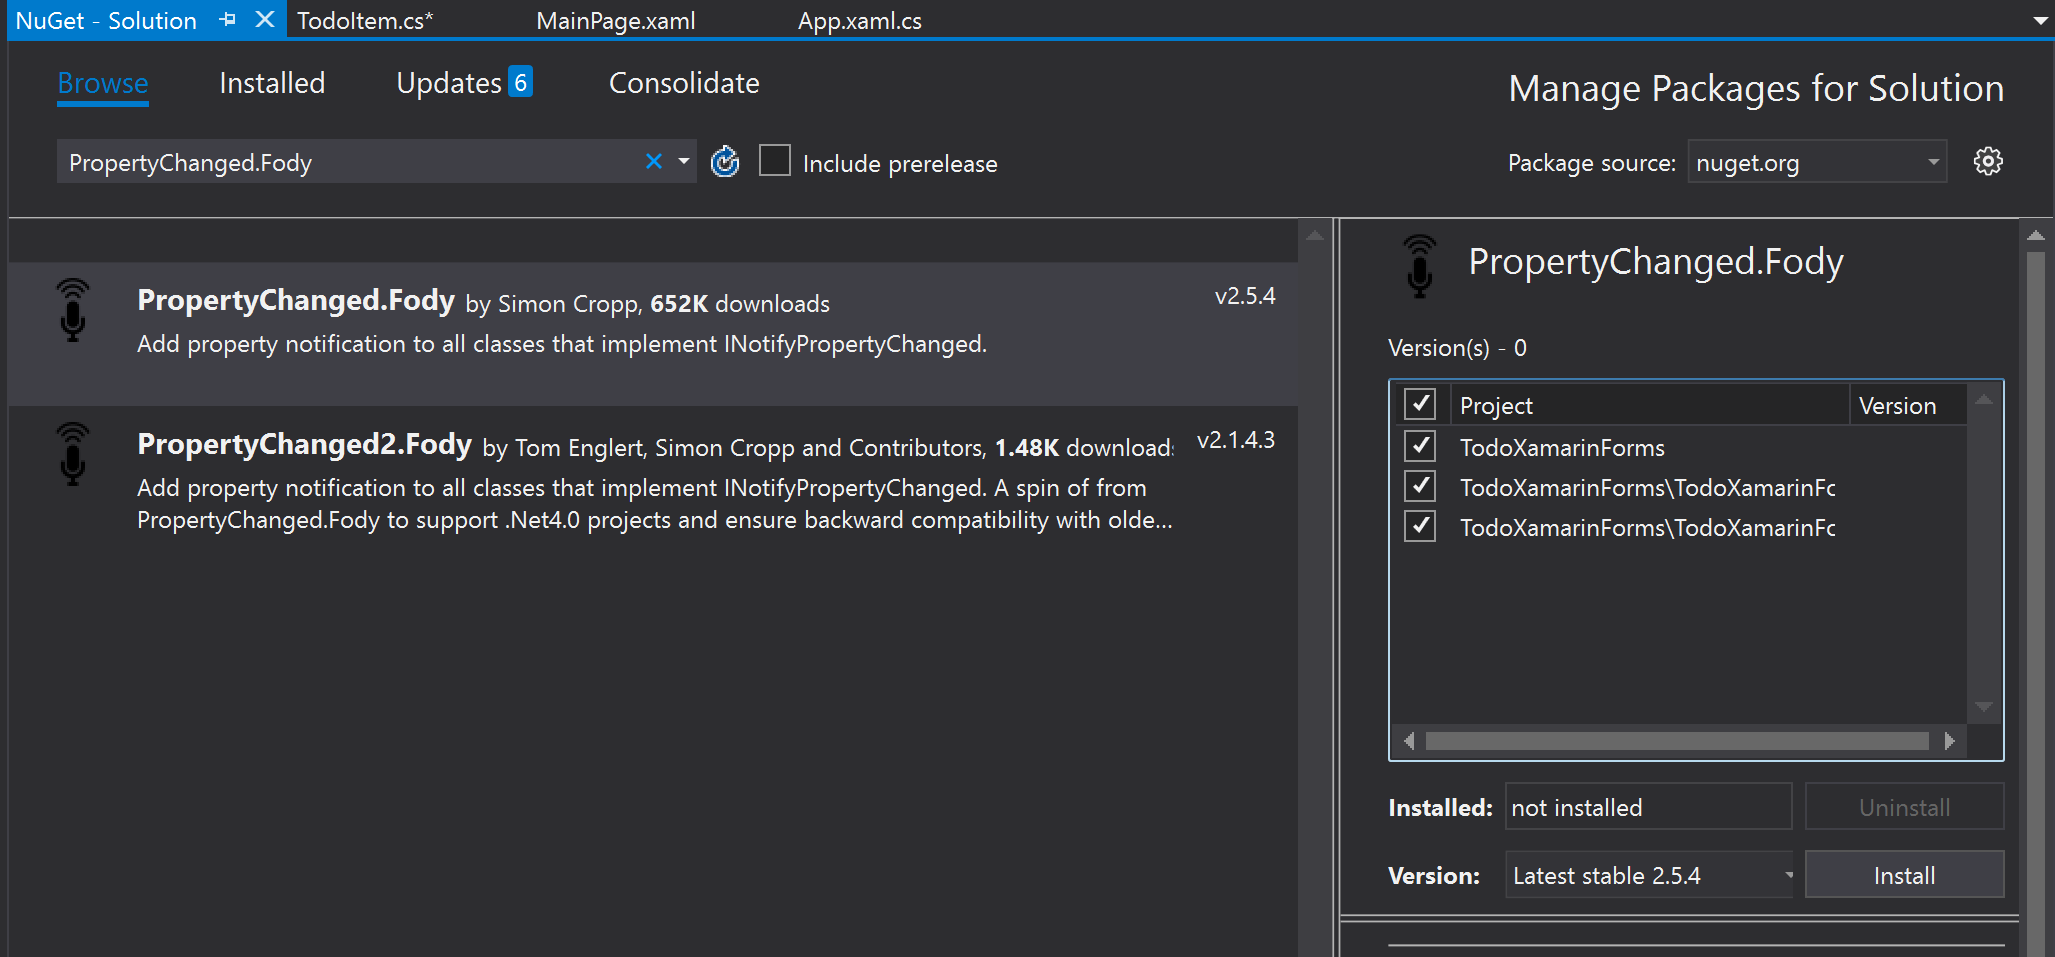
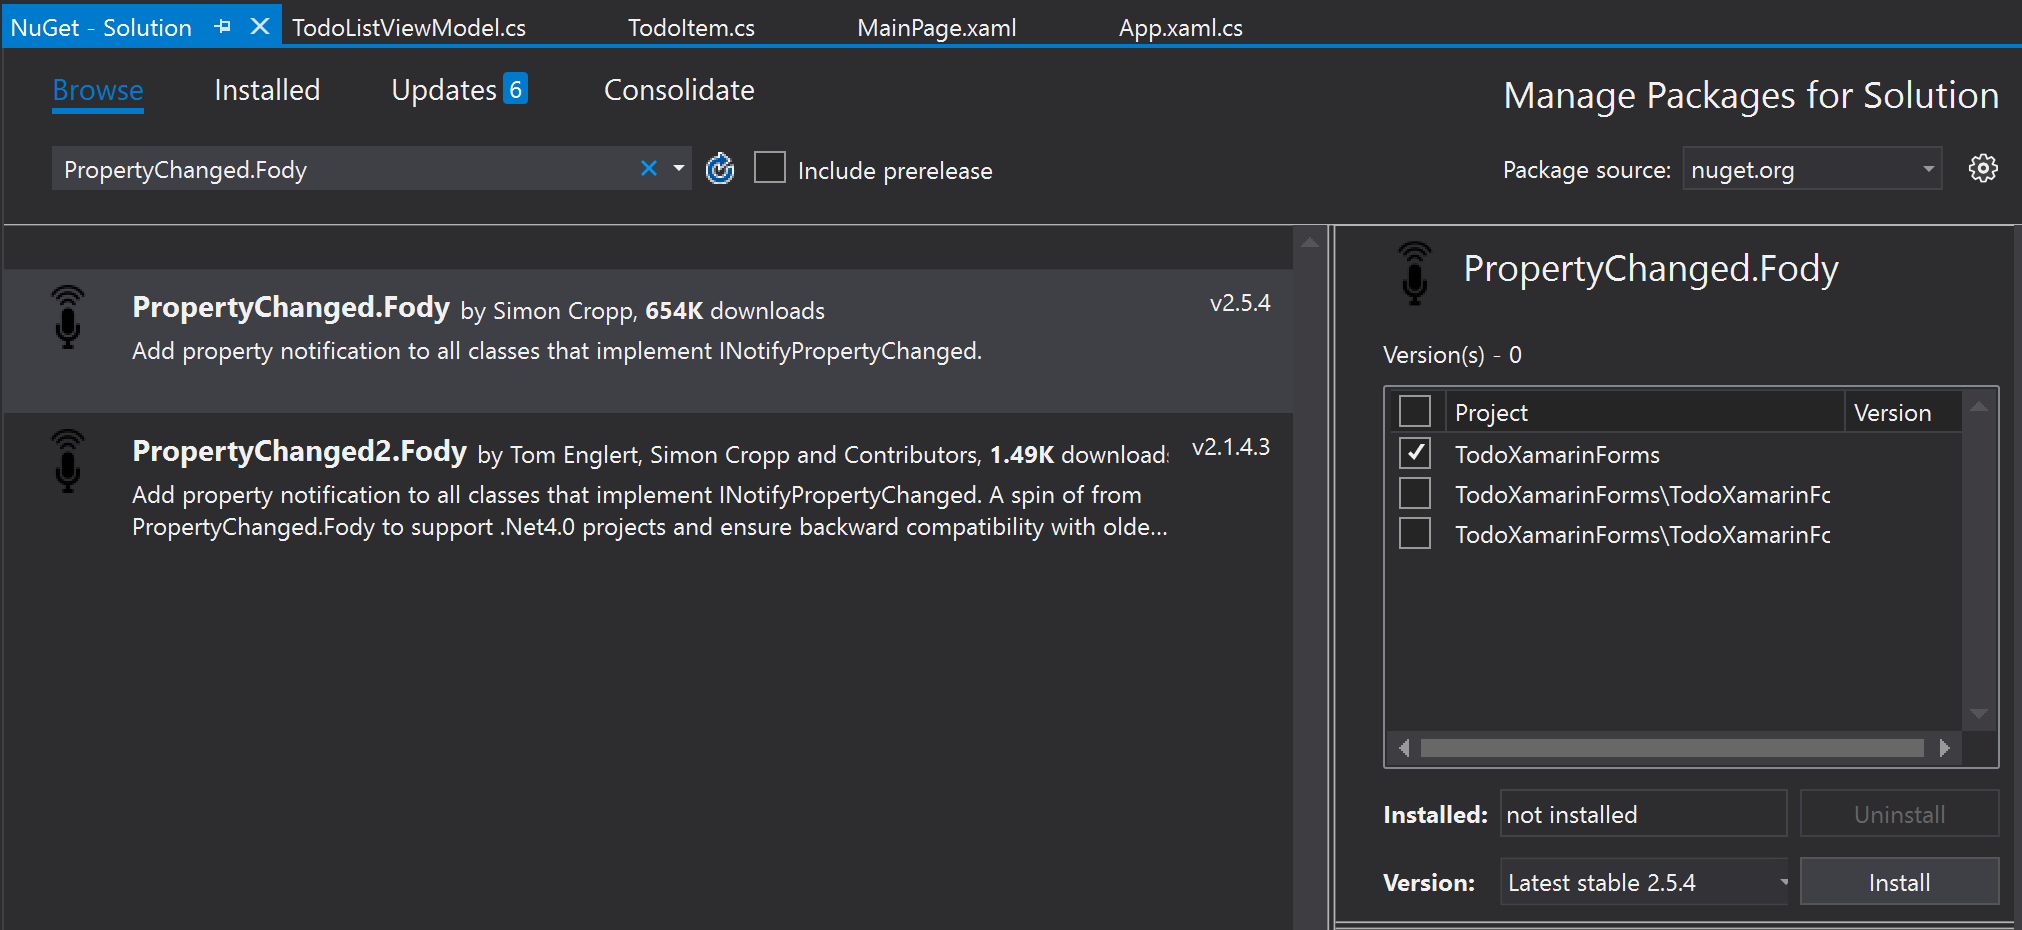
Switch to Fody

diff --git a/posts/XamarinForms/index.html b/posts/XamarinForms/index.html
@@ -61,13 +61,50 @@
     </p>
     <h3>Displaying a list of TODO items</h3>
     <p>
-    The first thing we want to do is define our TODO item. We'll create a new class called TodoItem.cs that has the basic properties we want: Id, Title, and IsCompleted.
-    Right click on the TodoXamarinForms project and select Add-&gt;Class. Name the class and click 'OK'. This creates a basic C# class that we'll add our
-    properties to
+    Xamarin Forms uses XAML for UI developent, which provides access to two way databinding. Unfortunately, there is a little boilerplate code required
+    to get this working. We're going to use the <a href="">Fody</a> package and a base class to clean that up a little.
+    </p>
+    <p>
+    First we'll install the Fody package. Right click on the solution and select 'Manage NuGet Packages for Solution'. Search for PropertyChanged.Fody
+    and install it on the .NET Standard project (reminder: the one that says neither Android nor iOS). Next we need to create a configuration XML file.
+    <br />
+    <img src="./FODY.png" width="500" />
+    <br />
+    Right click on the TodoXamarinForms project and select 'Add-&gt;New Item'. Select XML from the list and name it FodyWeavers.xml. Paste this content
+    into the file:
+    <pre>
+&lt;?xml version="1.0" encoding="utf-8" ?&gt;
+&lt;Weavers&gt;
+  &lt;PropertyChanged/&gt;
+&lt;/Weavers&gt;
+    </pre>
+    Finally we want to create a base class we'll use to make our other classes observable. Right click on TodoXamarinForms again and select Add-&gt;Class.
+    Name the class BaseFodyObservable.cs. In the class, implement INotifyPropertyChanged.
+    <pre>
+using System.ComponentModel;
+
+namespace TodoXamarinForms
+{
+    class BaseFodyObservable : INotifyPropertyChanged
+    {
+#pragma warning disable CS0067
+        public event PropertyChangedEventHandler PropertyChanged;
+#pragma warning restore
+    }
+}
+    </pre>
+    You may notice a couple weird looking #pragma statements in the sample code. These aren't strictly needed, but they tell the compiler to ignore
+    the fact that nothing directly uses the PropertyChanged event. This has no effect on the functionality of our app, but I prefer to hide this warning
+    since we know it will be used by the Fody package.
+    </p>
+    <p>
+    Now that we have the boilerplate out of the way, we should is define our TODO item. Since this is a simple app, we only have 3 properties we care
+    about for a todo: a unique id, a title, and whether or not it has been completed. For this we'll create a new class called TodoItem.cs that is a
+    subclass of our BaseFodyObservable. Follow the same steps used to create the BaseFodyObservable file and add the following content:
     <pre>
 namespace TodoXamarinForms
 {
-    public class TodoItem
+    public class TodoItem : BaseFodyObservable
     {
         public int Id { get; set; }
         public string Title { get; set; }
@@ -77,22 +114,17 @@ namespace TodoXamarinForms
     </pre>
     </p>
     <p>
-    Now we want to start creating the UI. Xamarin forms uses XAML for UI development, which allows us to use databinding to display our TODO items. To do this, we're first going to create
-    a View Model class called TodoListViewModel.cs. To save ourselves some time and boilerplate code, we're going to us the MvvmHelpers library.
-    <br />
-    Right click on the Solution and select Manage NuGetPackages for Solution. Search for Refractored.MvvmHelpers and install it on all projects.
-    <br >
-    <img src="./MvvmHelpers.png" width="500" />
-    </p>
-    Now we'll create our View Model. Follow the same steps we used to create TodoItem and add one property: TodoList. Then subclass BaseViewModel. 
+    Now it's time to start looking at the data we want to show on our landing screen. To start with, we want to display a title at the top of the screen
+    and show a list of our todo items. We'll create a view model called TodoListViewModel that holds this data. Don't forget to make this a subclass of
+    BaseFodyObservable as well.
     <pre>
-using MvvmHelpers;
 using System.Collections.ObjectModel;
 
 namespace TodoXamarinForms
 {
-    public class TodoListViewModel : BaseViewModel
+    public class TodoListViewModel : BaseFodyObservable
     {
+        public string Title { get; set; }
         public ObservableCollection<TodoItem> TodoList { get; set; }
     }
 }

diff --git a/TodoXamarinForms/TodoXamarinForms/TodoXamarinForms/TodoListViewModel.cs b/TodoXamarinForms/TodoXamarinForms/TodoXamarinForms/TodoListViewModel.cs
@@ -1,10 +1,10 @@
-using MvvmHelpers;
-using System.Collections.ObjectModel;
+using System.Collections.ObjectModel;
 
 namespace TodoXamarinForms
 {
-    public class TodoListViewModel : BaseViewModel
+    class TodoListViewModel : BaseFodyObservable
     {
+        public string Title { get; set; }
         public ObservableCollection<TodoItem> TodoList { get; set; } = new ObservableCollection<TodoItem>
         {
             new TodoItem { Id = 0, Title = "Create First Todo", IsCompleted = true},

diff --git a/TodoXamarinForms/TodoXamarinForms/TodoXamarinForms/BaseFodyObservable.cs b/TodoXamarinForms/TodoXamarinForms/TodoXamarinForms/BaseFodyObservable.cs
@@ -1,0 +1,11 @@
+using System.ComponentModel;
+
+namespace TodoXamarinForms
+{
+    class BaseFodyObservable : INotifyPropertyChanged
+    {
+#pragma warning disable CS0067
+        public event PropertyChangedEventHandler PropertyChanged;
+#pragma warning restore
+    }
+}

diff --git a/TodoXamarinForms/TodoXamarinForms/TodoXamarinForms/TodoItem.cs b/TodoXamarinForms/TodoXamarinForms/TodoXamarinForms/TodoItem.cs
@@ -1,6 +1,6 @@
 namespace TodoXamarinForms
 {
-    public class TodoItem
+    class TodoItem : BaseFodyObservable
     {
         public int Id { get; set; }
         public string Title { get; set; }
